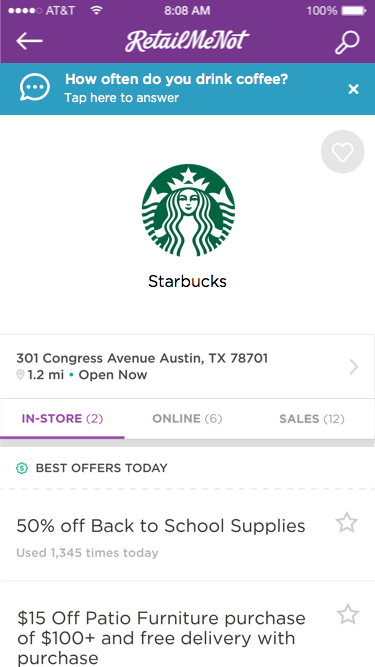
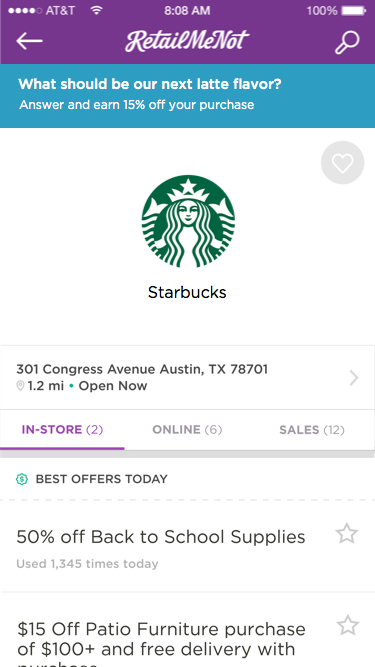
Added store page & more cards

diff --git a/survey.html b/survey.html
@@ -1,0 +1,123 @@
+<DOCTYPE! html>
+<head>
+	<title>Survey</title>
+	<link rel="stylesheet" type="text/css" href="style.css">
+	<script src="http://ajax.googleapis.com/ajax/libs/jquery/1.2.6/jquery.js"></script>
+	<script src="card.js"></script>
+  <meta name="viewport" content="width=device-width, user-scalable=no, initial-scale=1.3, maximum-scale=1.3, minimum-scale=1.3">
+
+</head>
+<body>
+<div class="content">
+  <ul class="card-stack">
+    <li class="card card-8 back-8 thank-you">
+      <div class="links">
+        <a class="answermore" href="index.html">Redeem Coupon</a>
+        <br>
+        <br>
+        <a href="store-after.html">Done</a>
+      </div>
+    </li>
+     <li class="card card-7 back-7 dynamic-color">
+      <div class="card-header"></div>
+      <div class="logo"></div>
+      <div class="company-name">Starbucks</div>
+      <div class="question question-5">How often do you get Starbucks weekly?</div>
+    </li>
+
+    <li class="card card-6 back-6 dynamic-color">
+      <div class="card-header"></div>
+      <div class="logo"></div>
+      <div class="company-name">Starbucks</div>
+      <div class="question question-5">What is your least favorite thing about this Starbucks? </div>
+    </li>
+
+    <li class="card card-5 back-5 dynamic-color">
+      <div class="card-header"></div>
+      <div class="logo"></div>
+      <div class="company-name">Starbucks</div>
+      <div class="question question-5">What is your favorite thing about your Starbucks?</div>
+    </li>
+
+    <li class="card card-4 back-4 dynamic-color">
+      <div class="card-header"></div>
+      <div class="logo"></div>
+      <div class="company-name">Starbucks</div>
+      <div class="question question-4">Do you live in Austin, Texas?</div>
+    </li>
+
+    <li class="card card-3 back-3 dynamic-color">
+      <div class="card-header"></div>
+      <div class="logo"></div>
+      <div class="company-name">Starbucks</div>
+      <div class="question question-3">Are you a student?</div>
+    </li>
+
+    <li class="card card-2 back-2 dynamic-color">
+      <div class="card-header"></div>
+      <div class="logo"></div>
+      <div class="company-name">Starbucks</div>
+      <div class="question question-2">Why do you come to Starbucks?</div>  
+    </li>
+
+    <li class="card card-1 front dynamic-color">
+      <div class="card-header"></div>
+      <div class="logo"></div>
+      <div class="company-name">Starbucks</div>
+      <div class="question question-1">What should be our next latte flavor?</div>
+    </li>
+  </ul>
+  
+  <div class="answer-container">
+    <!--<div class="button" id="next-card">
+    Next Card
+    </div>-->
+    <ul class="button-set button-set-1 active">
+      <li class="button green-bg">Cinnamon</li>
+      <li class="button green-bg">Dark Coco</li>
+      <li class="button green-bg">Creme Brulee</li>
+      <li class="button green-bg">Strudel</li>
+    </ul>
+
+    <ul class="button-set button-set-2">
+      <li class="button purple-bg">To Study</li>
+      <li class="button purple-bg">To Work</li>
+      <li class="button purple-bg">To Relax</li>
+      <li class="button purple-bg">Grab n Go</li>
+    </ul>
+
+    <ul class="button-set button-set-3">
+      <li class="button yellow-bg">Yes</li>
+      <li class="button yellow-bg">No</li>
+    </ul>
+
+    <ul class="button-set button-set-4">
+      <li class="button blue-bg">Yes</li>
+      <li class="button blue-bg">No</li>
+    </ul>
+
+    <ul class="button-set button-set-5">
+      <li class="button red-bg">Service</li>
+      <li class="button red-bg">Cleanliness</li>
+      <li class="button red-bg">Work Space</li>
+      <li class="button red-bg">Wait time</li>
+    </ul>
+
+     <ul class="button-set button-set-6">
+      <li class="button green-bg">Service</li>
+      <li class="button green-bg">Cleanliness</li>
+      <li class="button green-bg">Long lines</li>
+      <li class="button green-bg">Too crowded</li>
+    </ul>
+
+    <ul class="button-set button-set-7">
+      <li class="button purple-bg">Daily</li>
+      <li class="button purple-bg">4-6 times</li>
+      <li class="button purple-bg">3-4 times</li>
+      <li class="button purple-bg">1 or less</li>
+    </ul>
+
+  </div>
+  
+</div>
+</body>

diff --git a/index.html b/index.html
@@ -2,99 +2,12 @@
 <head>
 	<title>Survey</title>
 	<link rel="stylesheet" type="text/css" href="style.css">
-	<script src="http://ajax.googleapis.com/ajax/libs/jquery/1.2.6/jquery.js"></script>
-	<script src="card.js"></script>
   <meta name="viewport" content="width=device-width, user-scalable=no, initial-scale=1.3, maximum-scale=1.3, minimum-scale=1.3">
 
 </head>
+
 <body>
-<div class="content">
-  <ul class="card-stack">
-    <li class="card card-6 back-6 thank-you">
-      <div class="links">
-        <a class="answermore" href="index.html">Answer More</a>
-        <br>
-        <br>
-        <a href="..">Done</a>
-      </div>
-    </li>
-
-    <li class="card card-5 back-5 dynamic-color">
-      <div class="card-header"></div>
-      <div class="logo"></div>
-      <div class="company-name">Starbucks</div>
-      <div class="question question-5"></div>
-    </li>
-
-    <li class="card card-4 back-4 dynamic-color">
-      <div class="card-header"></div>
-      <div class="logo"></div>
-      <div class="company-name">Starbucks</div>
-      <div class="question question-4"></div>
-    </li>
-
-    <li class="card card-3 back-3 dynamic-color">
-      <div class="card-header"></div>
-      <div class="logo"></div>
-      <div class="company-name">Starbucks</div>
-      <div class="question question-3"></div>
-    </li>
-
-    <li class="card card-2 back-2 dynamic-color">
-      <div class="card-header"></div>
-      <div class="logo"></div>
-      <div class="company-name">Starbucks</div>
-      <div class="question question-2"> What time of day do you like to grab coffee?</div>  
-    </li>
-
-    <li class="card card-1 front dynamic-color">
-      <div class="card-header"></div>
-      <div class="logo"></div>
-      <div class="company-name">Starbucks</div>
-      <div class="question question-1">How often do you drink coffee?</div>
-    </li>
-  </ul>
-  
-  <div class="answer-container">
-    <!--<div class="button" id="next-card">
-    Next Card
-    </div>-->
-    <ul class="button-set button-set-1 active">
-      <li class="button green-bg">Everyday</li>
-      <li class="button green-bg">Sometimes</li>
-      <li class="button green-bg">Once a Week</li>
-      <li class="button green-bg">Never</li>
-    </ul>
-
-    <ul class="button-set button-set-2">
-      <li class="button purple-bg">Morning</li>
-      <li class="button purple-bg">Lunch</li>
-      <li class="button purple-bg">Afternoon</li>
-      <li class="button purple-bg">Evening</li>
-    </ul>
-
-    <ul class="button-set button-set-3">
-      <li class="button yellow-bg">Yes</li>
-      <li class="button yellow-bg">No</li>
-      <li class="button yellow-bg">Maybe</li>
-      <li class="button yellow-bg">Meh</li>
-    </ul>
-
-    <ul class="button-set button-set-4">
-      <li class="button blue-bg">Yes</li>
-      <li class="button blue-bg">No</li>
-      <li class="button blue-bg">Maybe</li>
-      <li class="button blue-bg">Meh</li>
-    </ul>
-
-    <ul class="button-set button-set-5">
-      <li class="button red-bg">Yes</li>
-      <li class="button red-bg">No</li>
-      <li class="button red-bg">Maybe</li>
-      <li class="button red-bg">Meh</li>
-    </ul>
-
-  </div>
-  
-</div>
+	<div class="store">
+		<a href="survey.html"><img src="img/starbucks-store.png">
+	</div>
 </body>

diff --git a/style.css b/style.css
@@ -58,8 +58,8 @@
   height: 420px;
   overflow: hidden;
   margin: 0 0 auto; 
-  background-color: #f4f4f4;
-  background-size: 100px;
+  background: url('img/starbucks-store-gray.png') center no-repeat;
+  background-size: 235px;
 }
 
 ul {
@@ -74,7 +74,7 @@ ul {
 ul.card-stack {
   max-width: 200px;
   height: 260px;
-  margin: 35px auto 10px;
+  margin: 50px auto 10px;
   position: relative; }
 
 .card {
@@ -99,6 +99,16 @@ ul.card-stack {
   /*  &:hover{
       left: -20px;
     }*/ }
+     .card.back-8 {
+    -webkit-transform: scale(0.65, 0.65);
+    transform: scale(0.65, 0.65);
+    top: -35%; }
+
+    .card.back-7 {
+    -webkit-transform: scale(0.7, 7.);
+    transform: scale(0.7, 0.7);
+    top: -30%; }
+
   .card.back-6 {
     -webkit-transform: scale(0.75, 0.75);
     transform: scale(0.75, 0.75);
@@ -139,23 +149,33 @@ ul.card-stack {
 }
 
 .dynamic-color:nth-child(2n + 0) .card-header {
-  background: #e55c55 url('img/food-header.png') no-repeat center; 
+  background: #ab64cc url('img/food-header.png') no-repeat center; 
   background-size: 200px;
 }
 .dynamic-color:nth-child(3n + 0) .card-header {
-  background: #54c4c6 url('img/food-header.png') no-repeat center; 
+  background: #37C99E url('img/food-header.png') no-repeat center; 
   background-size: 200px;
 }
 .dynamic-color:nth-child(4n + 0) .card-header {
-  background: #f4d74a url('img/food-header.png') no-repeat center; 
+  background: #e55c55 url('img/food-header.png') no-repeat center; 
   background-size: 200px; 
 }
 .dynamic-color:nth-child(5n + 0) .card-header {
-  background: #ab64cc url('img/food-header.png') no-repeat center; 
+  background: #54c4c6 url('img/food-header.png') no-repeat center; 
   background-size: 200px;
 }
 
 .dynamic-color:nth-child(6n + 0) .card-header {
+  background: #f4d74a url('img/food-header.png') no-repeat center; 
+  background-size: 200px;
+}
+
+.dynamic-color:nth-child(7n + 0) .card-header {
+  background: #ab64cc url('img/food-header.png') no-repeat center; 
+  background-size: 200px;
+}
+
+.dynamic-color:nth-child(8n + 0) .card-header {
   background: #37C99E url('img/food-header.png') no-repeat center; 
   background-size: 200px;
 }
@@ -203,12 +223,12 @@ a{
   text-decoration: none;
   text-align: center;
   font-size: .8em;
-  padding-bottom: 10px;
+  margin-bottom: 10px;
 }
 
 .links{
   text-align: center;
-  margin-top: 190px;
+  margin-top: 180px;
 }
 
 .answermore{
@@ -222,7 +242,7 @@ a{
 .answer-container {
   width: 100%;
   height: 30%;
-  margin-top: 30px;
+  margin-top: 20px;
   position: relative;
   font-family: 'Gotham-Medium', sans-serif;
   text-transform: uppercase;
